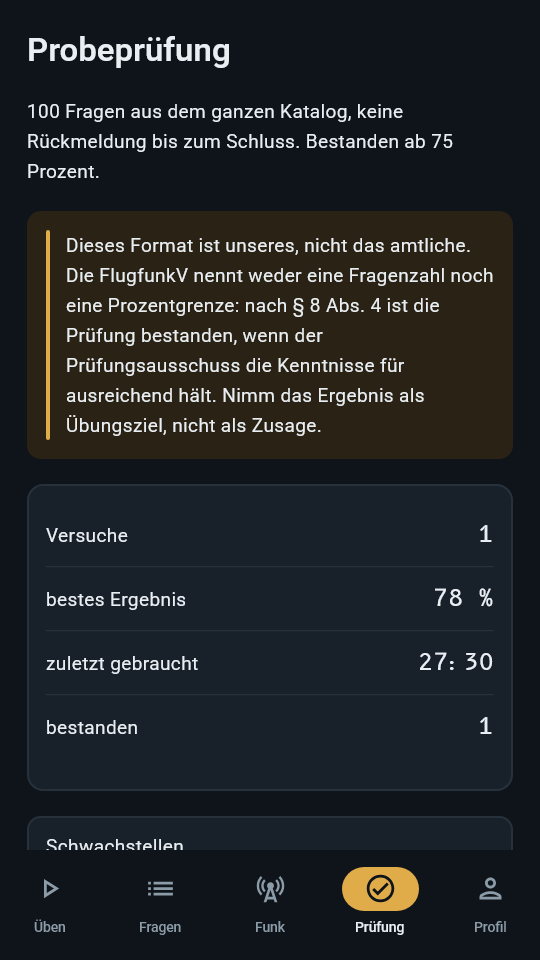
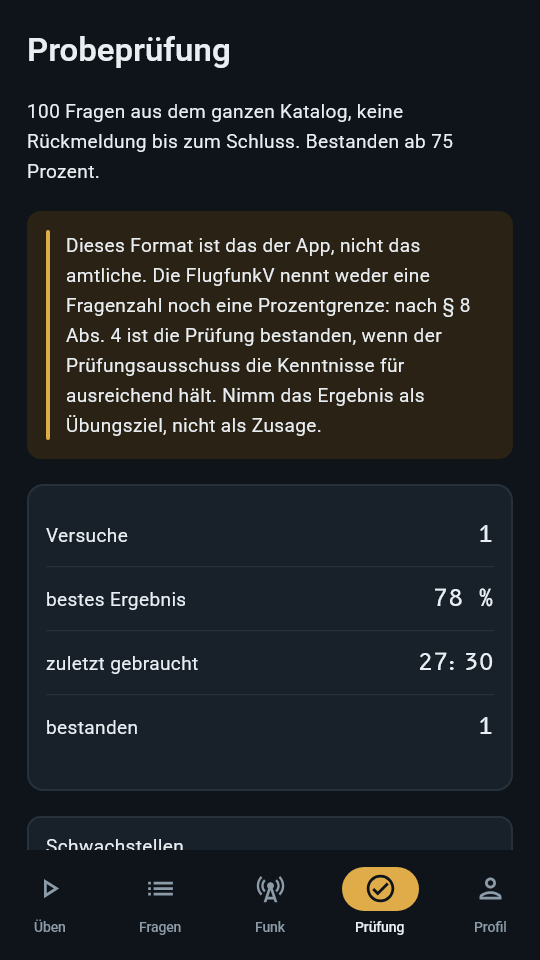
Squashed 'bzf-pruefung/' changes from d7d8e29..509abde
509abde Strukturierte Daten als Graph: die App verweist auf die Person des Schirms
aa2212e Kein "wir" mehr: Ladentext, Pruefungshinweis und zwei Fundstellen sprechen neutral

git-subtree-dir: bzf-pruefung
git-subtree-split: 509abdeee2e718c84708bdc8789e6b96d1bbb1c7

Changed region(s): [[0.1185, 0.25, 0.9185, 0.375]]

diff --git a/index.html b/index.html
@@ -27,24 +27,62 @@
 <script type="application/ld+json">
 {
   "@context": "https://schema.org",
-  "@type": "SoftwareApplication",
-  "name": "BZF-Prüfung: Fragen erklärt",
-  "alternateName": "BZF-Prüfung",
-  "operatingSystem": "Android",
-  "applicationCategory": "EducationalApplication",
-  "inLanguage": "de",
-  "url": "https://tobiaskummer.de/bzf-pruefung/",
-  "installUrl": "https://play.google.com/store/apps/details?id=aero.bzf.app",
-  "image": "https://tobiaskummer.de/bzf-pruefung/bilder/og.png",
-  "screenshot": "https://tobiaskummer.de/bzf-pruefung/bilder/03-fragen-erklaerung.png",
-  "description": "Lern-App für das Sprechfunkzeugnis BZF I und BZF II: alle 261 Prüfungsfragen der Bundesnetzagentur mit Erklärung, ein Funksimulator für den Flugfunk und 489 Sprechgruppen zum Nachschlagen.",
-  "offers": {
-    "@type": "Offer",
-    "price": "0",
-    "priceCurrency": "EUR",
-    "description": "Kostenlos; Pro als einmaliger Kauf für 12,99 €"
-  },
-  "author": { "@type": "Person", "name": "Tobias Kummer", "url": "https://tobiaskummer.de/" }
+  "@graph": [
+    {
+      "@type": "SoftwareApplication",
+      "@id": "https://tobiaskummer.de/bzf-pruefung/#app",
+      "name": "BZF-Prüfung: Fragen erklärt",
+      "alternateName": "BZF-Prüfung",
+      "operatingSystem": "Android",
+      "applicationCategory": "EducationalApplication",
+      "applicationSubCategory": "Prüfungsvorbereitung",
+      "inLanguage": "de",
+      "countriesSupported": "DE",
+      "isAccessibleForFree": true,
+      "softwareVersion": "1.0.0",
+      "url": "https://tobiaskummer.de/bzf-pruefung/",
+      "installUrl": "https://play.google.com/store/apps/details?id=aero.bzf.app",
+      "image": "https://tobiaskummer.de/bzf-pruefung/bilder/og.png",
+      "screenshot": [
+        "https://tobiaskummer.de/bzf-pruefung/bilder/03-fragen-erklaerung.png",
+        "https://tobiaskummer.de/bzf-pruefung/bilder/05-flug-gespraech.png",
+        "https://tobiaskummer.de/bzf-pruefung/bilder/07-funk-sprechgruppen.png"
+      ],
+      "description": "Lern-App für das Sprechfunkzeugnis BZF I und BZF II: alle 261 Prüfungsfragen der Bundesnetzagentur mit Erklärung, ein Funksimulator für den Flugfunk und 489 Sprechgruppen zum Nachschlagen.",
+      "featureList": [
+        "Alle 261 Prüfungsfragen der Bundesnetzagentur, gültig seit 01.05.2024",
+        "Erklärung und Fundstelle zu jeder Antwort",
+        "Funksimulator: ein ganzer Flug mit dem Turm, gesprochen und gehört",
+        "489 Sprechgruppen zum Nachschlagen",
+        "Probeprüfung mit 100 Fragen",
+        "Kein Konto, keine Werbung, kein Tracking"
+      ],
+      "offers": {
+        "@type": "Offer",
+        "price": "0",
+        "priceCurrency": "EUR",
+        "description": "Kostenlos; Pro als einmaliger Kauf für 12,99 €"
+      },
+      "author": { "@id": "https://tobiaskummer.de/#person" },
+      "publisher": { "@id": "https://tobiaskummer.de/#person" }
+    },
+    {
+      "@type": "WebPage",
+      "@id": "https://tobiaskummer.de/bzf-pruefung/",
+      "url": "https://tobiaskummer.de/bzf-pruefung/",
+      "name": "BZF-Prüfung App: alle 261 Fragen erklärt, BZF I und BZF II",
+      "inLanguage": "de",
+      "isPartOf": { "@id": "https://tobiaskummer.de/#website" },
+      "about": { "@id": "https://tobiaskummer.de/bzf-pruefung/#app" }
+    },
+    {
+      "@type": "BreadcrumbList",
+      "itemListElement": [
+        { "@type": "ListItem", "position": 1, "name": "Tobias Kummer", "item": "https://tobiaskummer.de/" },
+        { "@type": "ListItem", "position": 2, "name": "BZF-Prüfung", "item": "https://tobiaskummer.de/bzf-pruefung/" }
+      ]
+    }
+  ]
 }
 </script>
 </head>
